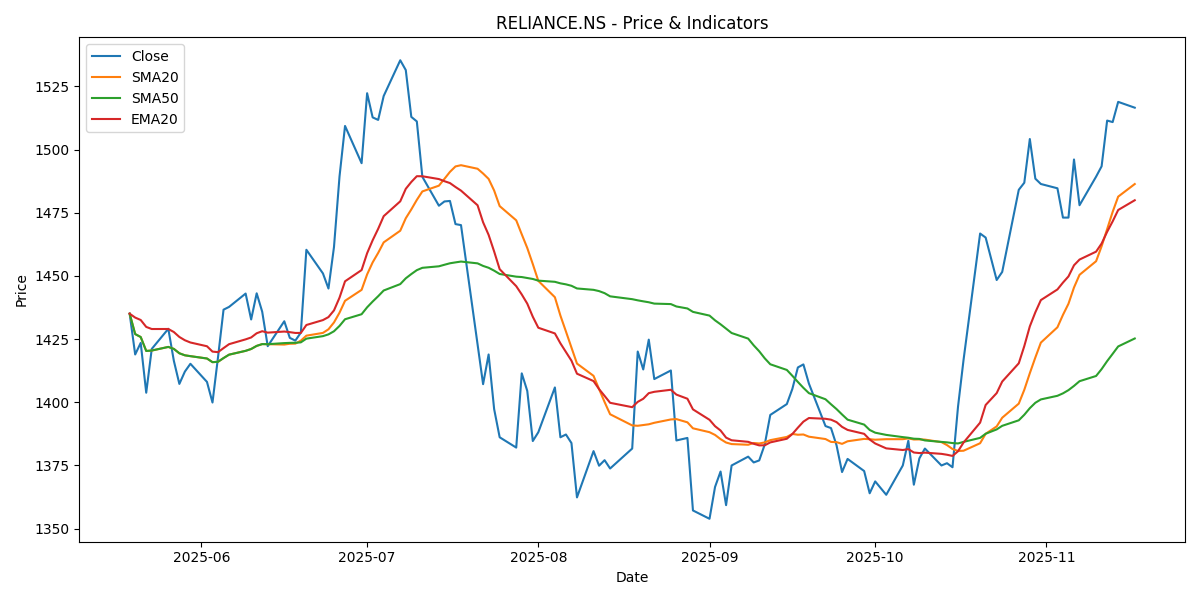
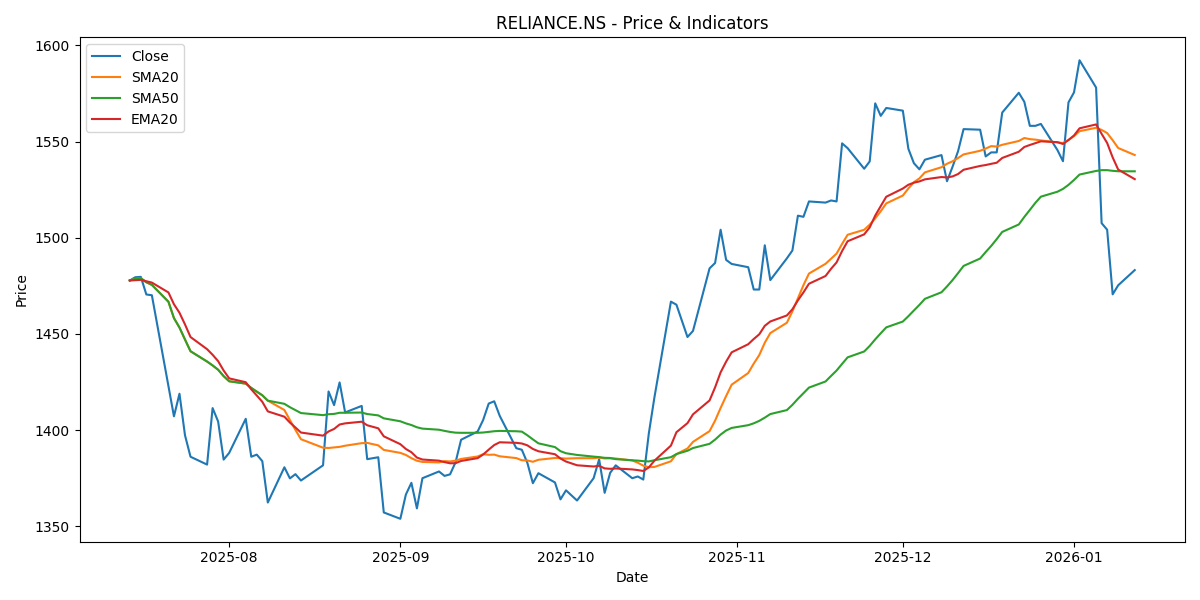
Initial commit

diff --git a/app.py b/app.py
@@ -24,7 +24,7 @@ app = Flask(__name__)
 def home():
     result = None
     chart_path = None
-    prediction_chart = None   # <-- Add this line
+    prediction_chart = None
     selected_stock = None
 
     if request.method == "POST":
@@ -33,17 +33,14 @@ def home():
         selected_stock = ticker
 
         try:
-            # 1) Live quote → CSV
             record = scrape_yahoo_quote(ticker)
             append_to_csv(record, path="data/live_prices.csv")
 
-            # 2) Historical data
             hist_path = f"data/historical_{ticker}.csv"
             hist = fetch_history(ticker, period="6mo", out_csv=hist_path)
 
-            # 3) Indicators + signals
             hist = add_indicators(hist, price_col="Close")
-            hist = generate_signals(hist)   
+            hist = generate_signals(hist)
 
             last = hist.iloc[-1]
             sig = last["signal"]
@@ -58,25 +55,16 @@ def home():
                 signal_text = "HOLD"
                 result = f"⚪ HOLD — No Clear Signal"
 
-            # ---------- ML MODEL SECTION ----------
             model = load_model()
             if model is None:
-                print("⚠ Training model for first time...")
                 accuracy, path = train_model(hist)
-                print(f"✔ Model trained (Accuracy: {accuracy:.2f}) saved at: {path}")
 
-            # ML prediction with confidence
             ml_prediction, confidence = predict_signal(last)
-
             result = f"{result} | 🤖 ML Prediction: {ml_prediction} ({confidence*100:.2f}% confidence)"
 
-            # 👉 Store ML prediction trend in dataframe for chart
             hist.loc[len(hist)-1, "ml_signal"] = ml_prediction
 
-
-            # ---------- EMAIL ALERTS ----------
             change = last.get("signal_change", 0)
-
             if change != 0 and signal_text in ("BUY", "SELL"):
                 try:
                     send_email_alert(ticker, float(last["Close"]), signal_text)
@@ -86,36 +74,34 @@ def home():
             # ---------- CHART ----------
             file_path = plot_with_indicators(hist, ticker, outpath="outputs/charts")
             chart_path = f"/chart?file={file_path}"
-            
-            # 👉 Create prediction vs actual trend chart
+
             prediction_file = plot_prediction_vs_actual(hist, ticker)
             prediction_chart = f"/chart?file={prediction_file}"
-
 
         except Exception as e:
             result = f"⚠ Error: {str(e)}"
 
     return render_template(
-    "index.html",
-    result=result,
-    chart=chart_path,
-    prediction_chart=prediction_chart,
-    selected_stock=selected_stock)
-
+        "index.html",
+        result=result,
+        chart=chart_path,
+        prediction_chart=prediction_chart,
+        selected_stock=selected_stock
+    )
 
 
 @app.route("/chart")
 def serve_chart():
     file = request.args.get("file")
-    file = os.path.abspath(file)
-    return send_file(file, mimetype="image/png")
+    return send_file(file, mimetype="image/png")   # ✅ FIXED
 
 
 @app.route("/download-chart")
 def download_chart():
     file = request.args.get("file")
-    file = os.path.abspath(file)
-    return send_file(file, as_attachment=True)
+    if file.startswith("/chart?file="):
+        file = file.replace("/chart?file=", "")
+    return send_file(file, as_attachment=True)     # ✅ FIXED
 
 
 if __name__ == "__main__":
